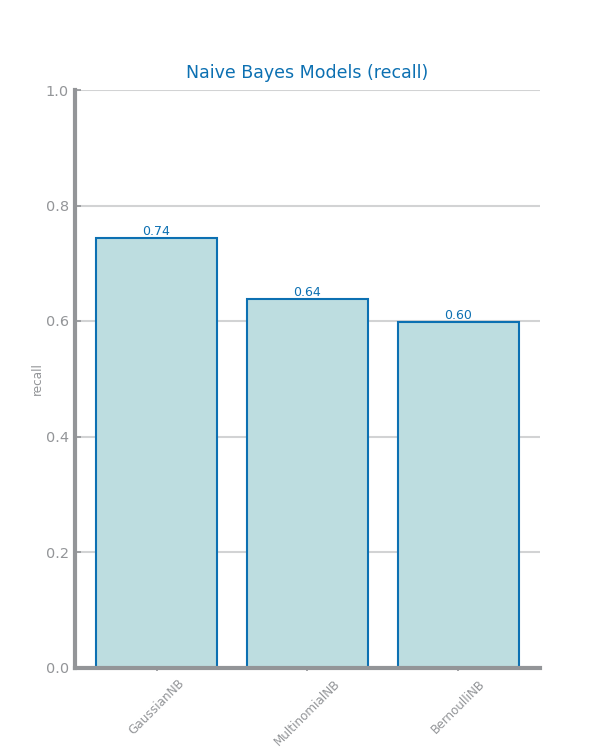
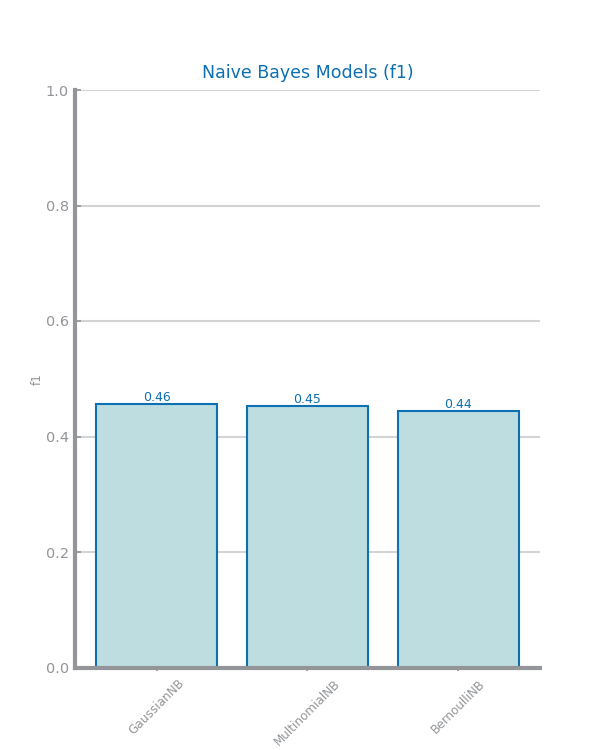
knn running

diff --git a/dataset_health/modeling/KNN.py b/dataset_health/modeling/KNN.py
@@ -1,0 +1,28 @@
+from config.dslabs_functions import read_train_test_from_files, CLASS_EVAL_METRICS, DELTA_IMPROVE, plot_bar_chart, knn_study, plot_evaluation_results
+from numpy import array, ndarray
+from sklearn.naive_bayes import GaussianNB, MultinomialNB, BernoulliNB
+from matplotlib.pyplot import figure, savefig, show
+
+file_tag = "covid"
+train_filename = "dataset_health/data/covid_under.csv"
+test_filename = "dataset_health/data/test.csv"
+target = "CovidPos"
+eval_metric = "f1"
+
+
+trnX, tstX, trnY, tstY, labels, vars = read_train_test_from_files(
+    train_filename, test_filename, target
+)
+
+
+figure()
+best_model, params = knn_study(trnX, trnY, tstX, tstY, k_max=25, metric=eval_metric)
+savefig(f'dataset_health/modeling/KNN_images/{file_tag}_knn_{eval_metric}_study.png')
+show()
+
+prd_trn: array = best_model.predict(trnX)
+prd_tst: array = best_model.predict(tstX)
+figure()
+plot_evaluation_results(params, trnY, prd_trn, tstY, prd_tst, labels)
+savefig(f'dataset_health/modeling/KNN_images/{file_tag}_knn_{params["name"]}_best_{params["metric"]}_eval.png')
+show()

diff --git a/config/dslabs_functions.py b/config/dslabs_functions.py
@@ -446,7 +446,7 @@ def knn_study(trnX, trnY, tstX, tstY, k_max=19, lag=2, metric='accuracy', file_t
     print(f'KNN best with k={best_params['params'][0]} and {best_params['params'][1]}')
 
     plot_multiple_line_chart(kvalues, values, title=f'KNN Models ({metric})', xlabel='k', ylabel=metric, percentage=True)
-    savefig(f'images/{file_tag}_knn_{metric}_study.png')
+    #savefig(f'images/{file_tag}_knn_{metric}_study.png')
 
     return best_model, best_params
 

diff --git a/dataset_health/modeling/NB.py b/dataset_health/modeling/NB.py
@@ -23,7 +23,7 @@ savefig(f"dataset_health/modeling/NB_images/{file_tag}_nb_{eval_metric}_study.pn
 
 
 figure(figsize=(4,5))
-best_model, params = naive_Bayes_study(trnX, trnY, tstX, tstY, "recall")
+best_model, params = naive_Bayes_study(trnX, trnY, tstX, tstY, "f1")
 savefig(f"dataset_health/modeling/NB_images/{file_tag}_nb_recall_study.png")
 show()
 
